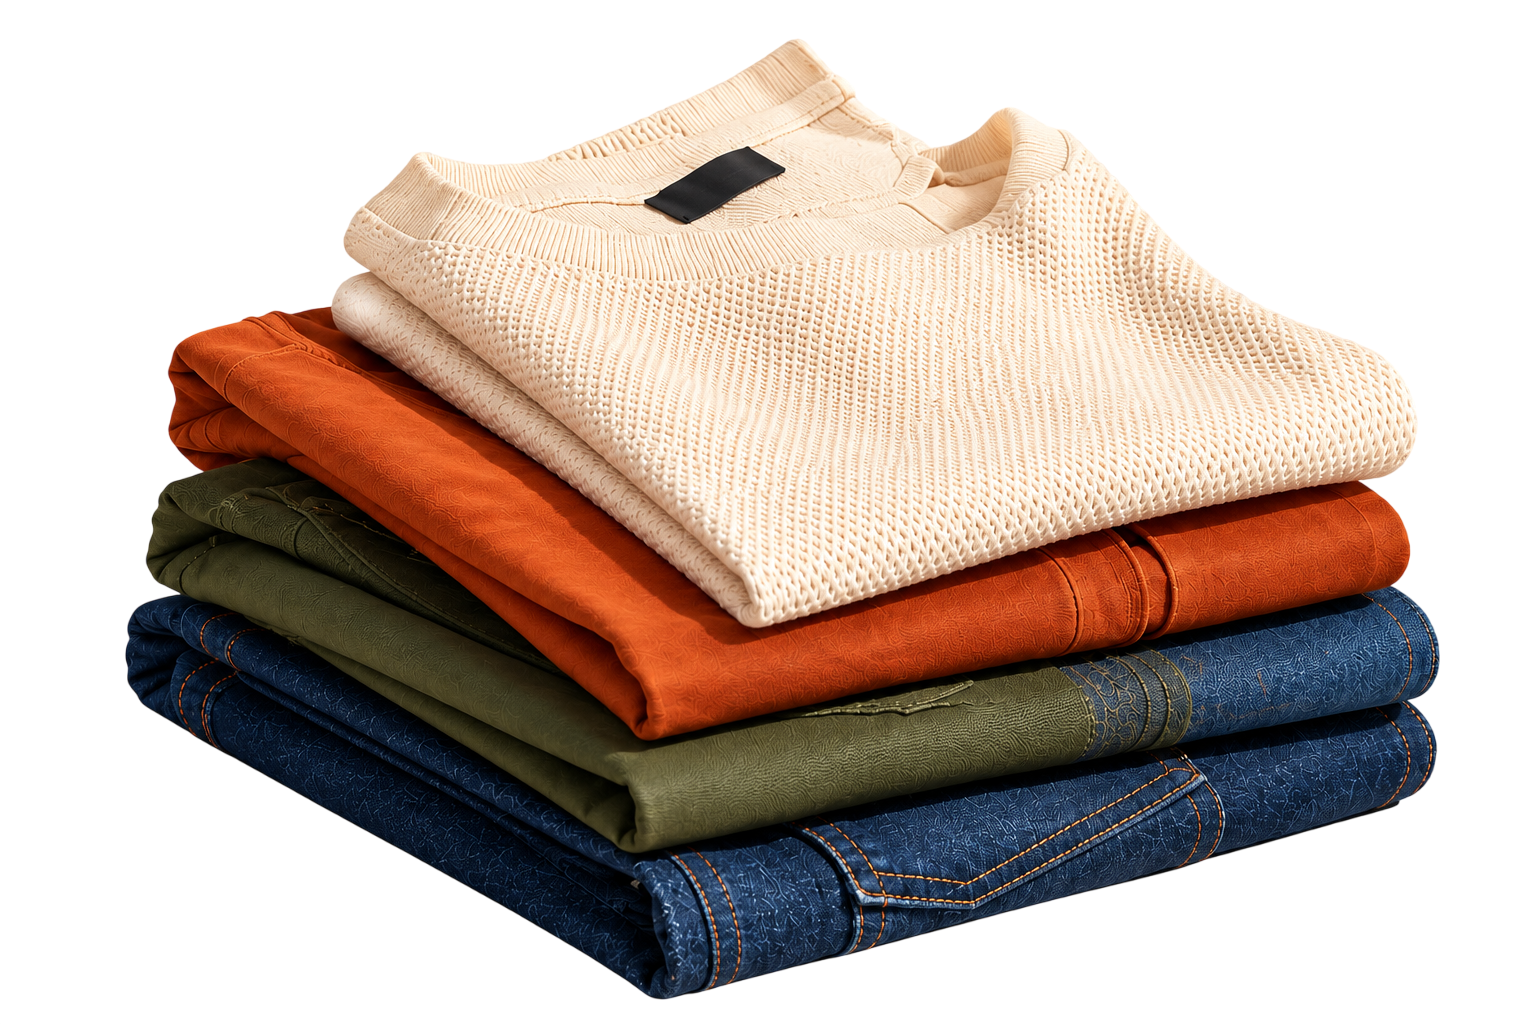
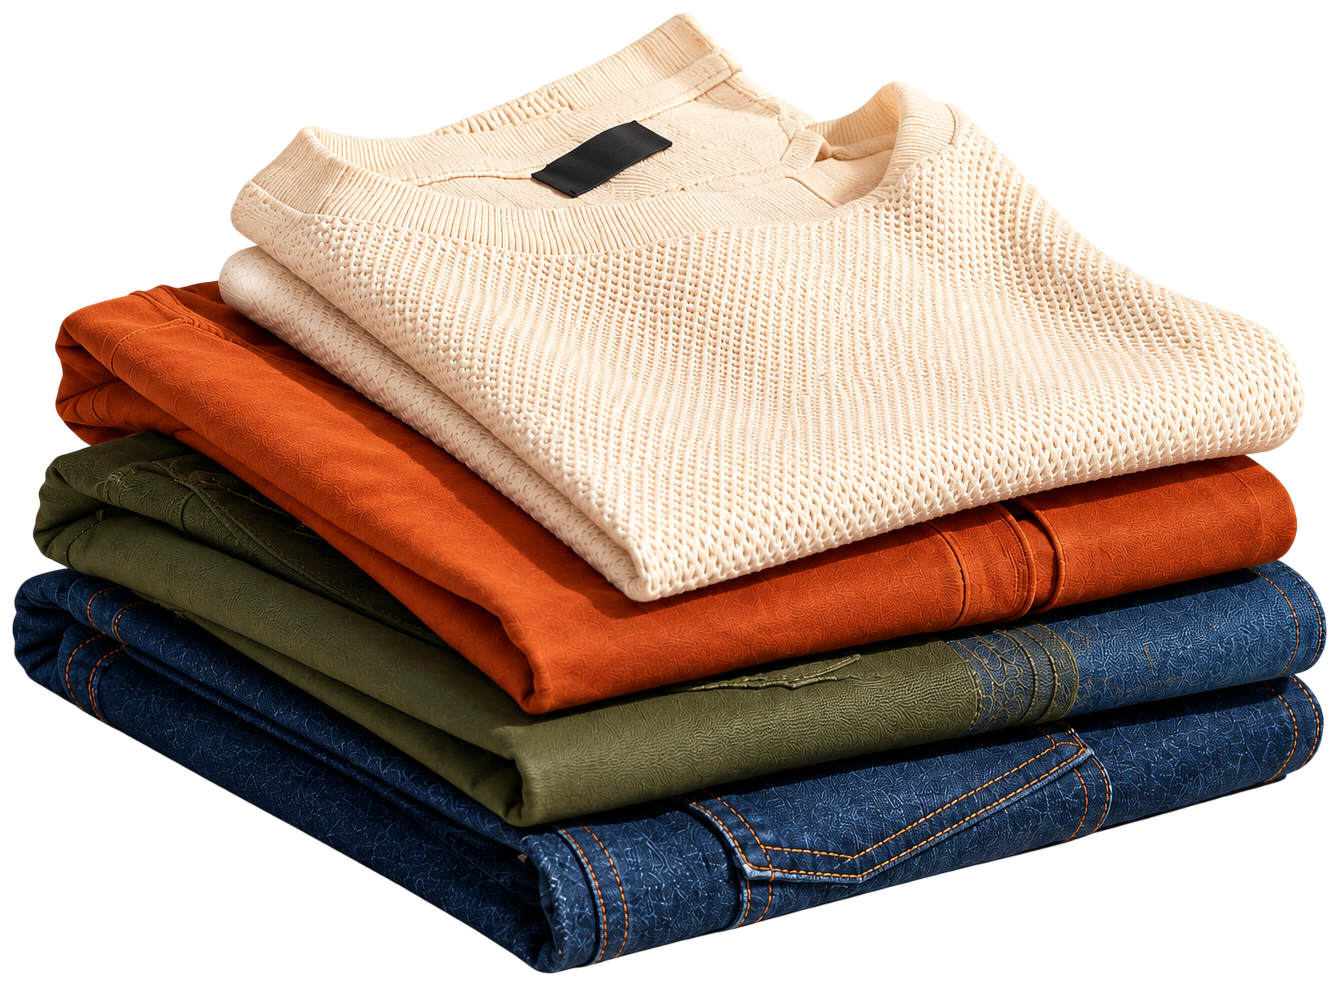
fix(category-cards): improve Men's card image framing, shadow, and remove clashing background shape

diff --git a/components/CategoryCards.tsx b/components/CategoryCards.tsx
@@ -10,7 +10,8 @@ export default function CategoryCards() {
           href="/collections"
           className="relative group cursor-pointer h-[180px] sm:h-[200px] lg:h-[240px] rounded-xl sm:rounded-2xl overflow-hidden bg-zinc-900"
         >
-          <div className="absolute right-0 top-0 bottom-0 w-[40%] bg-zinc-800 rounded-tl-[80px]" />
+          {/* Ambient backlight glow */}
+          <div className="absolute -right-4 top-1/2 -translate-y-1/2 w-48 sm:w-60 h-48 sm:h-60 bg-zinc-800/80 rounded-full blur-2xl pointer-events-none" />
 
           <div className="relative z-10 p-5 sm:p-7 lg:p-8 flex flex-col justify-between h-full w-[55%]">
             <div>
@@ -33,12 +34,12 @@ export default function CategoryCards() {
           </div>
 
           {/* Garments Image */}
-          <div className="absolute -right-3 sm:-right-5 bottom-0 w-[50%] h-[85%] z-0 pointer-events-none">
+          <div className="absolute right-2 sm:right-4 bottom-2 sm:bottom-3 w-[46%] sm:w-[44%] h-[82%] sm:h-[86%] z-0 pointer-events-none">
             <Image
               src="/images/neatly-folded-garments.png"
               alt="Men's Collection"
               fill
-              className="object-contain object-bottom-right group-hover:scale-105 transition-transform duration-500"
+              className="object-contain object-bottom-right drop-shadow-[0_12px_24px_rgba(0,0,0,0.55)] group-hover:scale-105 transition-transform duration-500"
               sizes="(max-width: 768px) 50vw, 25vw"
             />
           </div>
